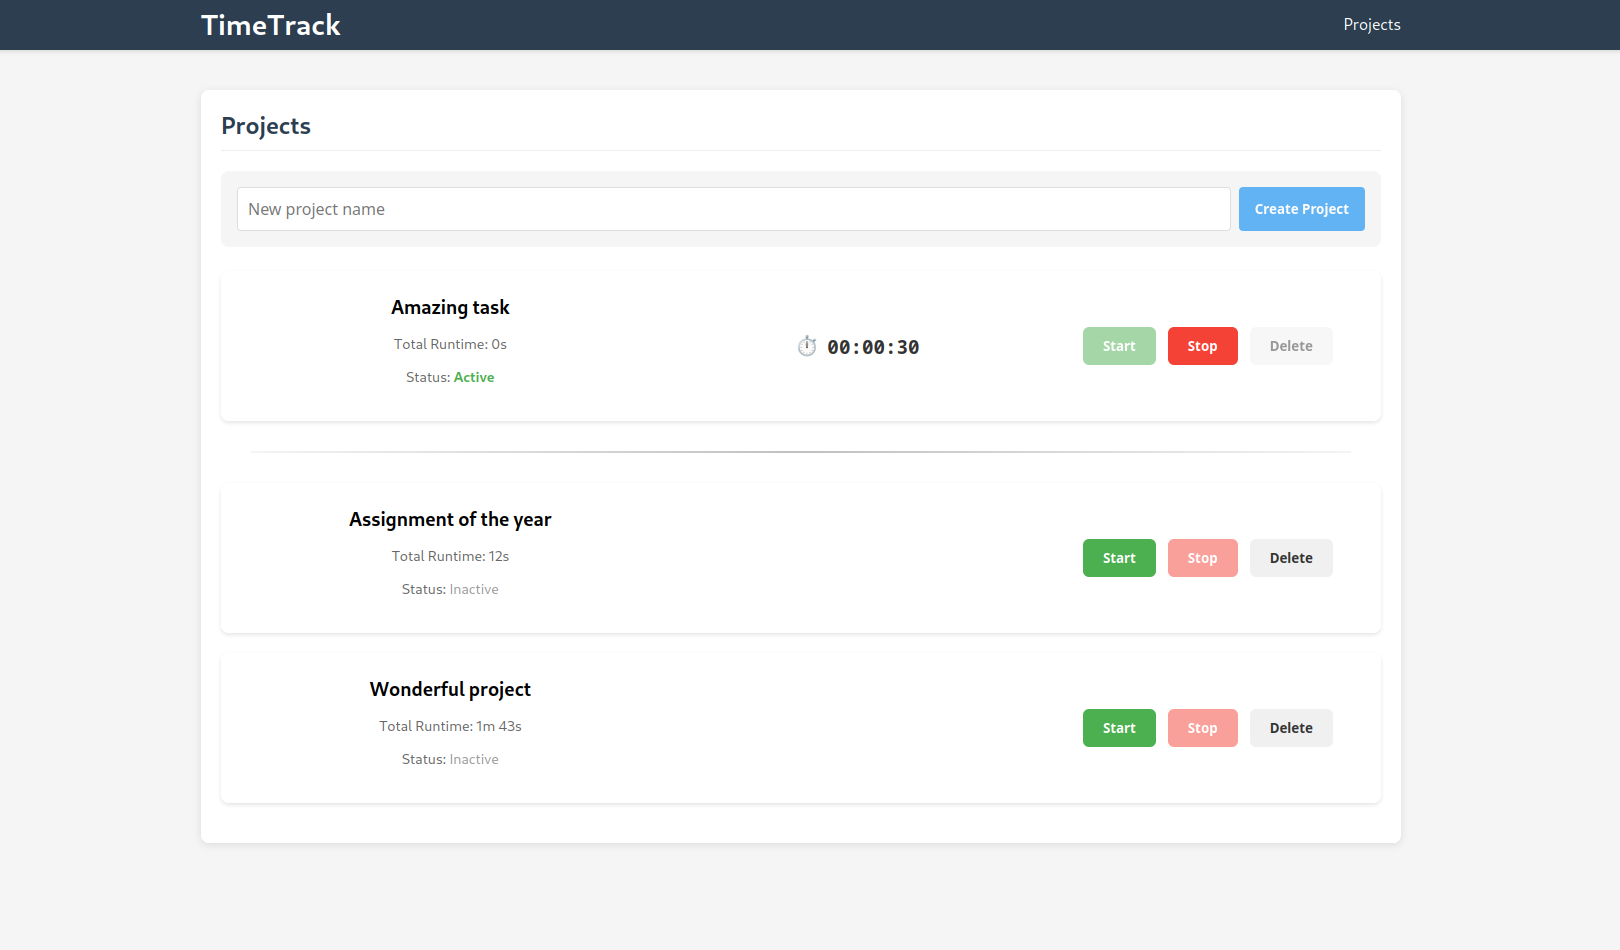
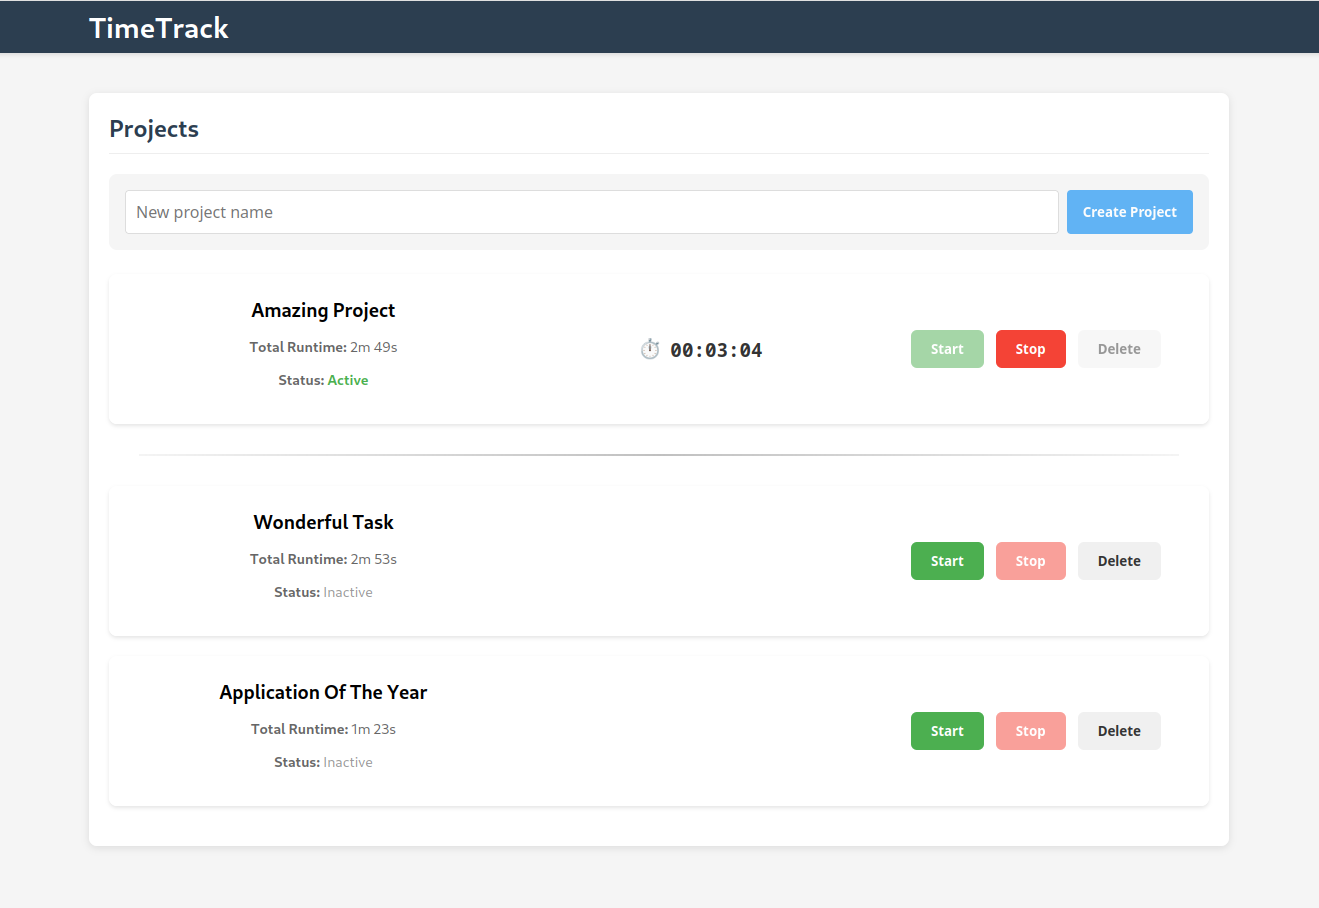
sorting of projects

diff --git a/frontend/src/components/ProjectItem.tsx b/frontend/src/components/ProjectItem.tsx
@@ -99,10 +99,10 @@ const ProjectItem: React.FC<ProjectItemProps> = ({ project, onProjectUpdated, cl
             <div className="project-info">
                 <h3>{project.Name}</h3>
                 <div className="project-runtime">
-                    Total Runtime: {formatRuntime(project.RuntimeInSeconds)}
+                    <strong>Total Runtime:</strong> {formatRuntime(project.RuntimeInSeconds)}
                 </div>
                 <div className="project-status">
-                    Status: <span className={isProjectActive() ? 'active' : 'inactive'}>
+                    <strong>Status:</strong> <span className={isProjectActive() ? 'active' : 'inactive'}>
                         {isProjectActive() ? 'Active' : 'Inactive'}
                     </span>
                 </div>

diff --git a/backend/pkg/projects/repository.go b/backend/pkg/projects/repository.go
@@ -43,8 +43,9 @@ const (
 	columnProjectsID        = "id"
 	columnProjectsName      = "name"
 	columnProjectsStartedAt = "started_at"
-	columnProjectsCreatedAt = "created_at"
 	columnProjectsRuntime   = "runtime"
+	columnProjectsCreatedAt = "created_at"
+	columnProjectsUpdatedAt = "updated_at"
 )
 
 func (r *repositoryImpl) AddProject(name string) error {
@@ -63,9 +64,9 @@ func (r *repositoryImpl) AddProject(name string) error {
 
 func (r *repositoryImpl) GetAllProjects() ([]*Project, error) {
 	res, err := r.database.Query(
-		"SELECT " + columnProjectsID + ", " + columnProjectsName + ", " + columnProjectsStartedAt + ", " + columnProjectsRuntime + ", " + columnProjectsCreatedAt +
+		"SELECT " + columnProjectsID + ", " + columnProjectsName + ", " + columnProjectsStartedAt + ", " + columnProjectsRuntime + ", " + columnProjectsCreatedAt + ", " + columnProjectsUpdatedAt +
 			" FROM " + tableProjects +
-			" ORDER BY " + columnProjectsStartedAt + ", " + columnProjectsCreatedAt + " DESC;",
+			" ORDER BY " + columnProjectsStartedAt + ", " + columnProjectsUpdatedAt + " DESC;",
 	)
 	if err != nil {
 		return nil, r.logAndAbstractError("Error getting all projects: %+v", err)
@@ -74,7 +75,7 @@ func (r *repositoryImpl) GetAllProjects() ([]*Project, error) {
 	projects := []*Project{}
 	for res.Next() {
 		project := &Project{}
-		if err := res.Scan(&project.ID, &project.Name, &project.StartedAt, &project.RuntimeInSeconds, &project.CreatedAt); err != nil {
+		if err := res.Scan(&project.ID, &project.Name, &project.StartedAt, &project.RuntimeInSeconds, &project.CreatedAt, &project.UpdatedAt); err != nil {
 			return nil, r.logAndAbstractError("Error scanning project: %+v", err)
 		}
 		projects = append(projects, project)
@@ -84,6 +85,12 @@ func (r *repositoryImpl) GetAllProjects() ([]*Project, error) {
 		if project.StartedAt != nil {
 			*project.StartedAt = project.StartedAt.Local()
 		}
+		if project.CreatedAt != nil {
+			*project.CreatedAt = project.CreatedAt.Local()
+		}
+		if project.UpdatedAt != nil {
+			*project.UpdatedAt = project.UpdatedAt.Local()
+		}
 	}
 
 	return projects, nil
@@ -92,11 +99,11 @@ func (r *repositoryImpl) GetAllProjects() ([]*Project, error) {
 func (r *repositoryImpl) GetProject(name string) (*Project, error) {
 	var project = &Project{}
 	if err := r.database.QueryRow(
-		"SELECT "+columnProjectsID+", "+columnProjectsName+", "+columnProjectsStartedAt+", "+columnProjectsRuntime+", "+columnProjectsCreatedAt+
+		"SELECT "+columnProjectsID+", "+columnProjectsName+", "+columnProjectsStartedAt+", "+columnProjectsRuntime+", "+columnProjectsCreatedAt+", "+columnProjectsUpdatedAt+
 			" FROM "+tableProjects+
 			" WHERE "+tableProjects+"."+columnProjectsName+"=$1;",
 		[]any{name},
-		&project.ID, &project.Name, &project.StartedAt, &project.RuntimeInSeconds, &project.CreatedAt,
+		&project.ID, &project.Name, &project.StartedAt, &project.RuntimeInSeconds, &project.CreatedAt, &project.UpdatedAt,
 	); err != nil {
 		switch {
 		case errors.As(err, &database.NoRowsError{}):
@@ -109,6 +116,12 @@ func (r *repositoryImpl) GetProject(name string) (*Project, error) {
 	if project.StartedAt != nil {
 		*project.StartedAt = project.StartedAt.Local()
 	}
+	if project.CreatedAt != nil {
+		*project.CreatedAt = project.CreatedAt.Local()
+	}
+	if project.UpdatedAt != nil {
+		*project.UpdatedAt = project.UpdatedAt.Local()
+	}
 
 	return project, nil
 }
@@ -116,12 +129,12 @@ func (r *repositoryImpl) GetProject(name string) (*Project, error) {
 func (r *repositoryImpl) GetRunningProject() (*Project, error) {
 	var project = &Project{}
 	if err := r.database.QueryRow(
-		"SELECT "+columnProjectsID+", "+columnProjectsName+", "+columnProjectsStartedAt+", "+columnProjectsRuntime+", "+columnProjectsCreatedAt+
+		"SELECT "+columnProjectsID+", "+columnProjectsName+", "+columnProjectsStartedAt+", "+columnProjectsRuntime+", "+columnProjectsCreatedAt+", "+columnProjectsUpdatedAt+
 			" FROM "+tableProjects+
 			" WHERE "+tableProjects+"."+columnProjectsStartedAt+" IS NOT NULL"+
 			" LIMIT 1;",
 		[]any{},
-		&project.ID, &project.Name, &project.StartedAt, &project.RuntimeInSeconds, &project.CreatedAt,
+		&project.ID, &project.Name, &project.StartedAt, &project.RuntimeInSeconds, &project.CreatedAt, &project.UpdatedAt,
 	); err != nil {
 		switch {
 		case errors.As(err, &database.NoRowsError{}):
@@ -133,6 +146,12 @@ func (r *repositoryImpl) GetRunningProject() (*Project, error) {
 
 	if project.StartedAt != nil {
 		*project.StartedAt = project.StartedAt.Local()
+	}
+	if project.CreatedAt != nil {
+		*project.CreatedAt = project.CreatedAt.Local()
+	}
+	if project.UpdatedAt != nil {
+		*project.UpdatedAt = project.UpdatedAt.Local()
 	}
 
 	return project, nil
@@ -220,7 +239,7 @@ func (r *repositoryImpl) stopProjectWithTx(tx *sql.Tx, name string) error {
 		return fmt.Errorf("project not running")
 	}
 
-	runtime := project.RuntimeInSeconds + uint64(time.Now().Sub(*project.StartedAt).Seconds())
+	runtime := project.RuntimeInSeconds + uint64(time.Since(*project.StartedAt).Seconds())
 	query := "UPDATE " + tableProjects +
 		" SET " + columnProjectsRuntime + "=$1, " + columnProjectsStartedAt + "=NULL" +
 		" WHERE " + columnProjectsName + "=$2;"

diff --git a/backend/pkg/projects/entities.go b/backend/pkg/projects/entities.go
@@ -10,4 +10,5 @@ type Project struct {
 	RuntimeInSeconds uint64
 	StartedAt        *time.Time
 	CreatedAt        *time.Time
+	UpdatedAt        *time.Time
 }
